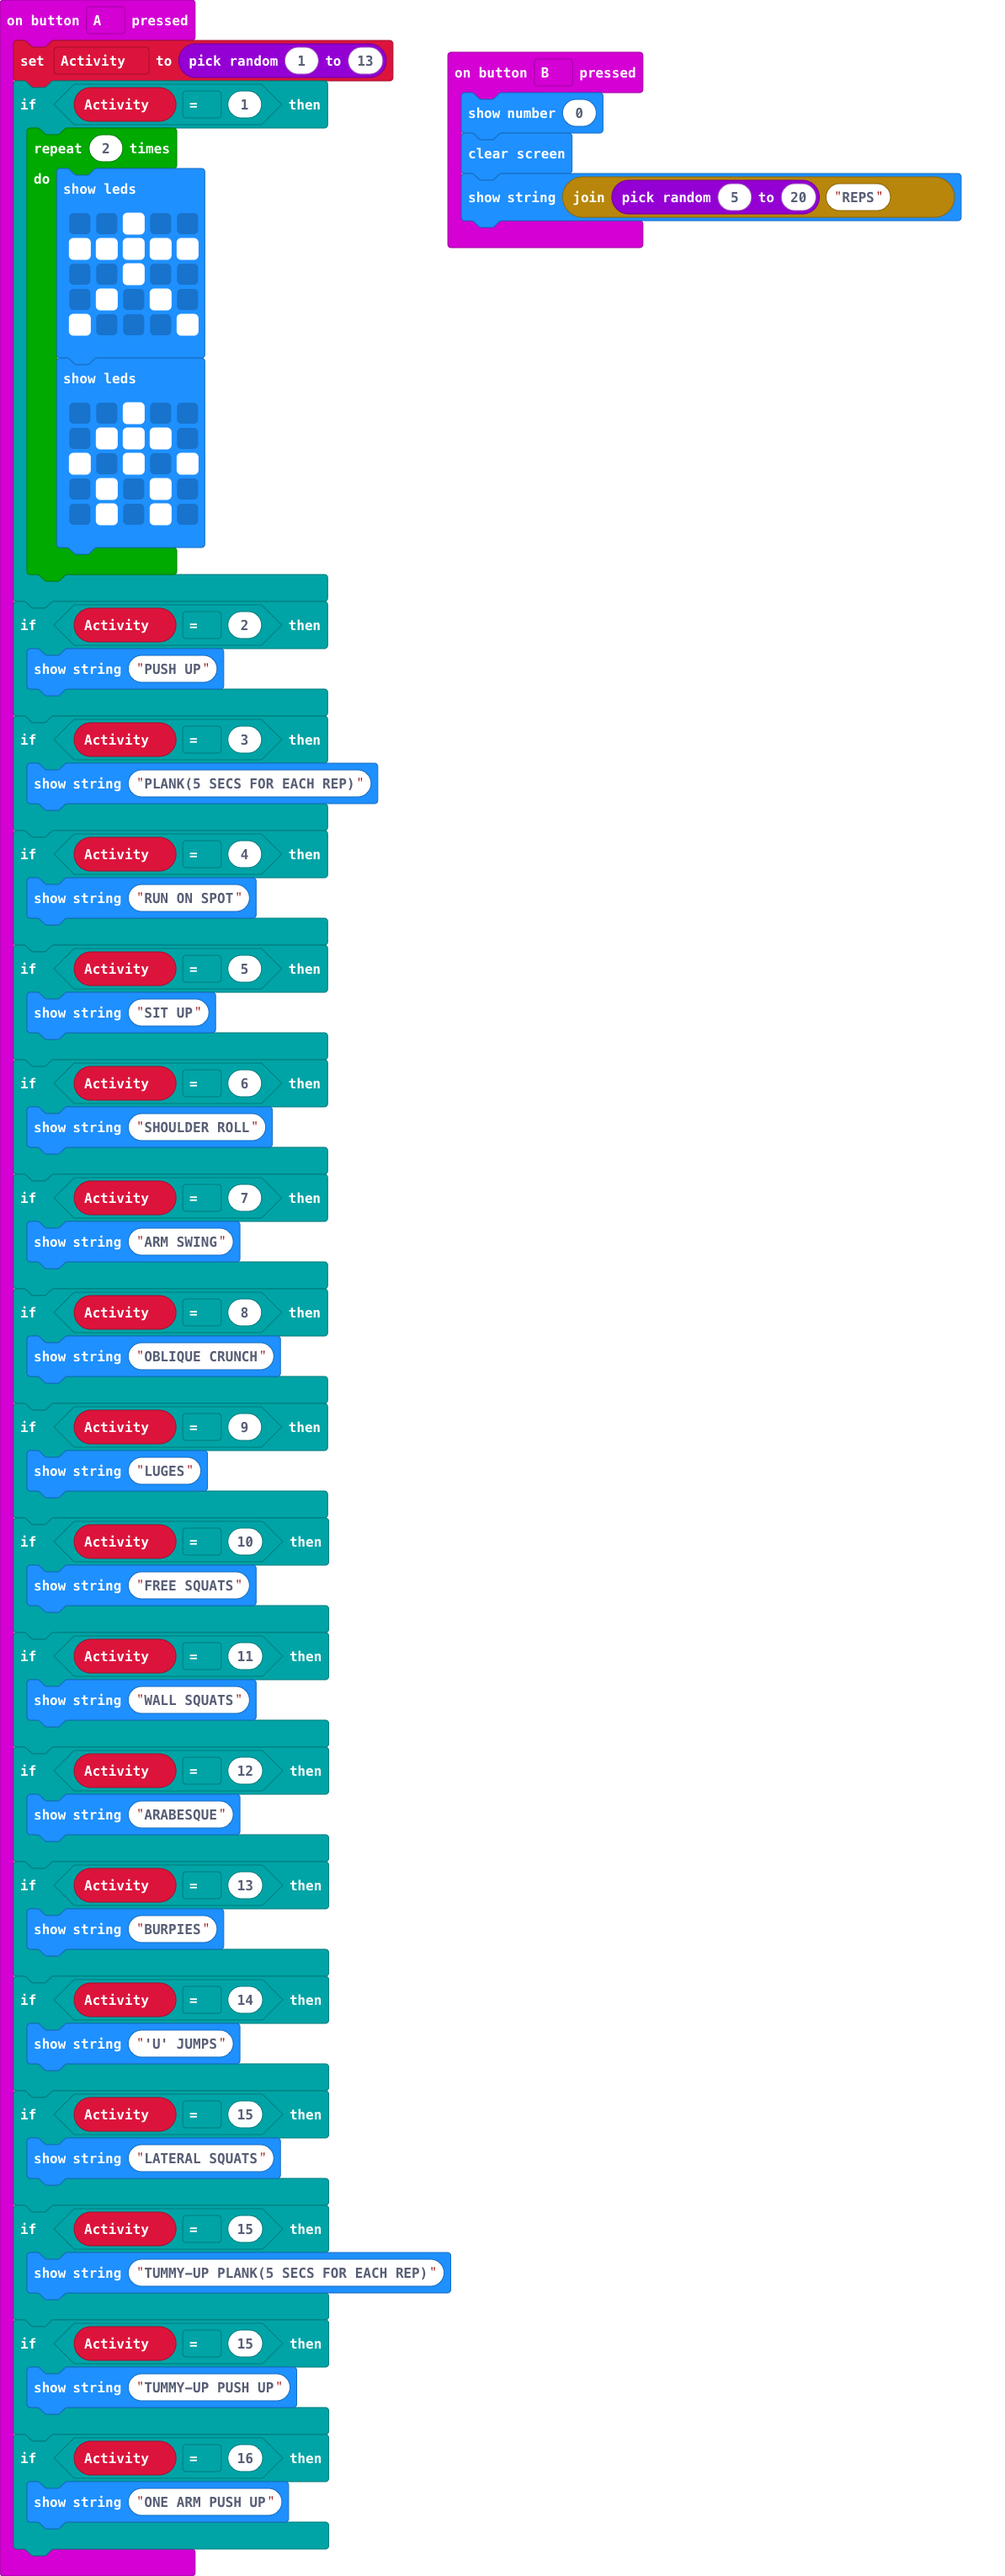
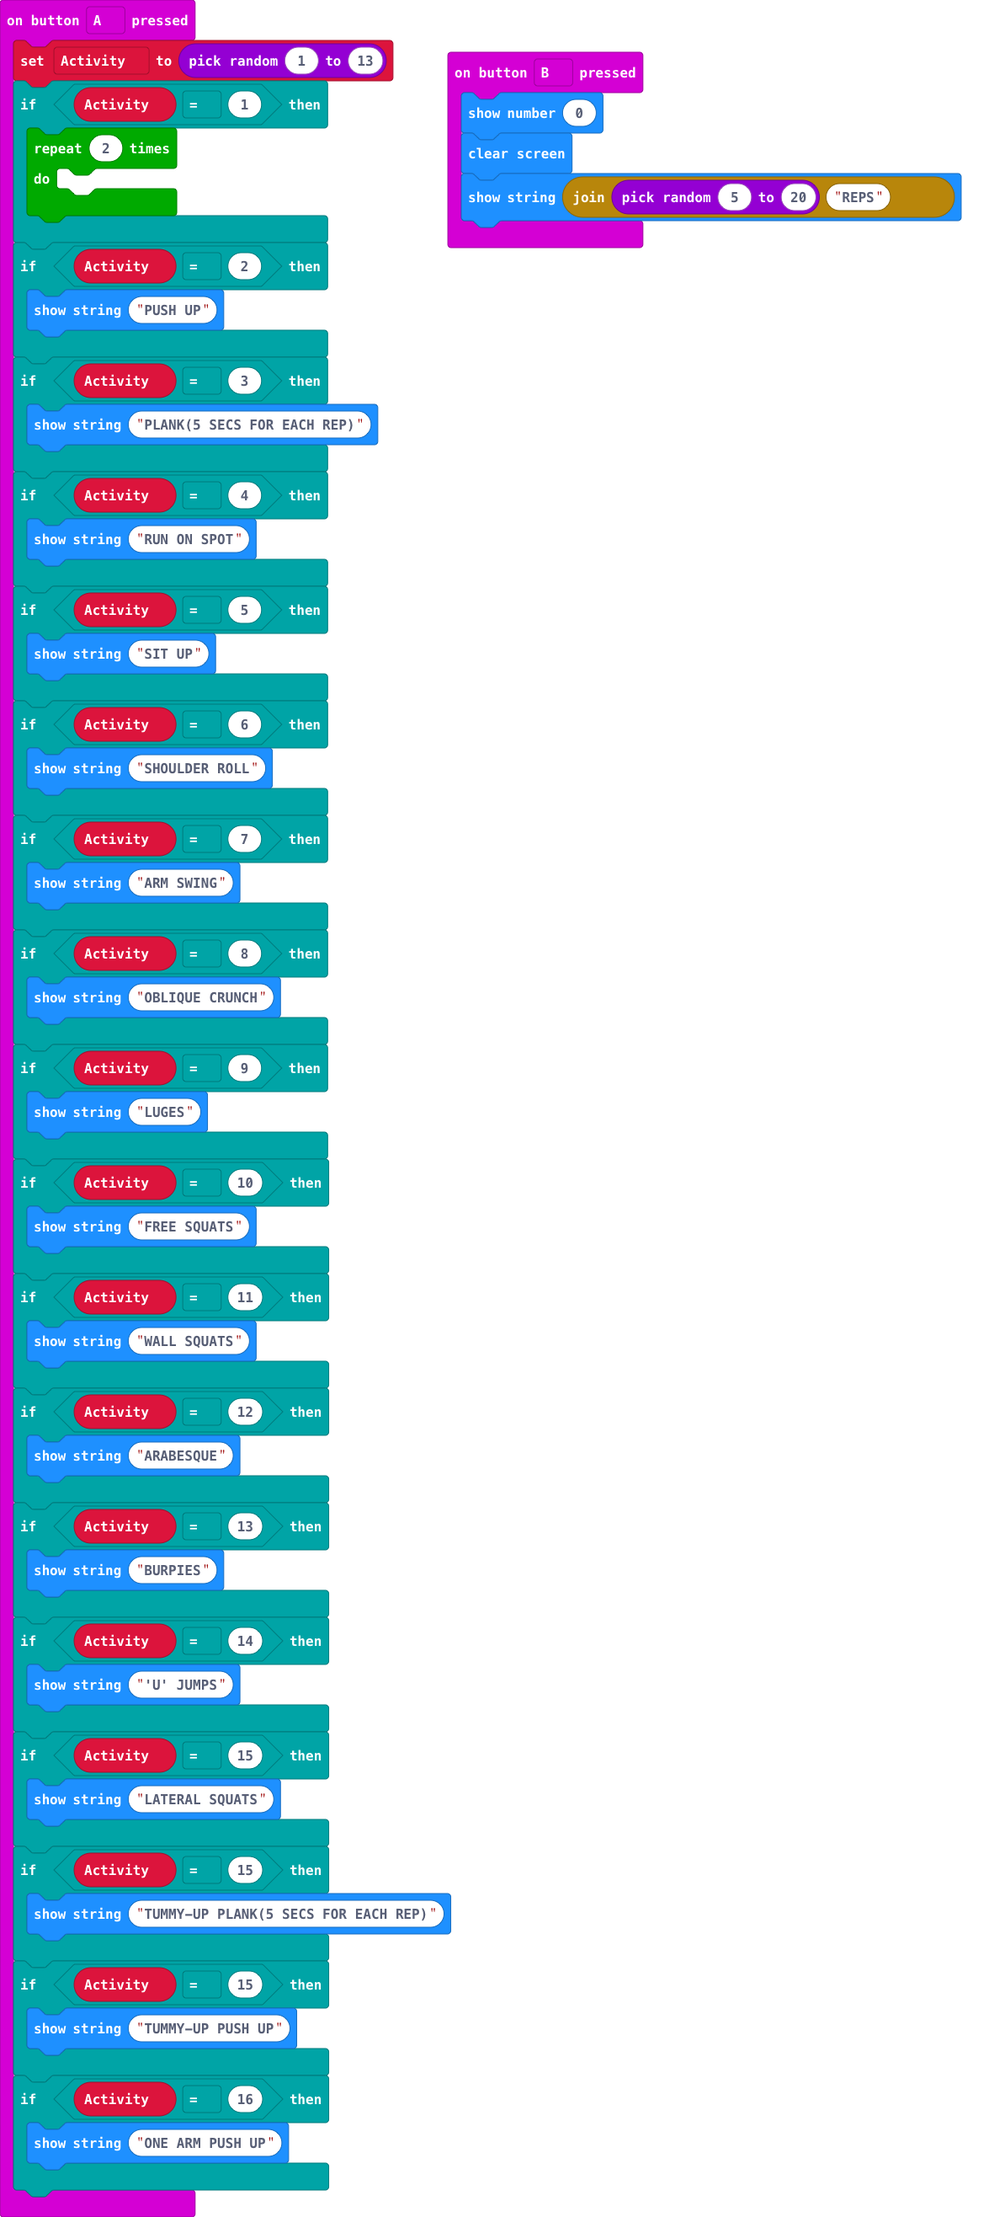
Update main.blocks, main.ts

Changed region(s): [[0.0, 0.0, 0.4648, 0.997], [0.4338, 0.0, 0.9606, 0.1246]]

diff --git a/main.ts b/main.ts
@@ -3,20 +3,7 @@ input.onButtonPressed(Button.A, function () {
     Activity = randint(1, 13)
     if (Activity == 1) {
         for (let index = 0; index < 2; index++) {
-            basic.showLeds(`
-                . . # . .
-                # # # # #
-                . . # . .
-                . # . # .
-                # . . . #
-                `)
-            basic.showLeds(`
-                . . # . .
-                . # # # .
-                # . # . #
-                . # . # .
-                . # . # .
-                `)
+        	
         }
     }
     if (Activity == 2) {
